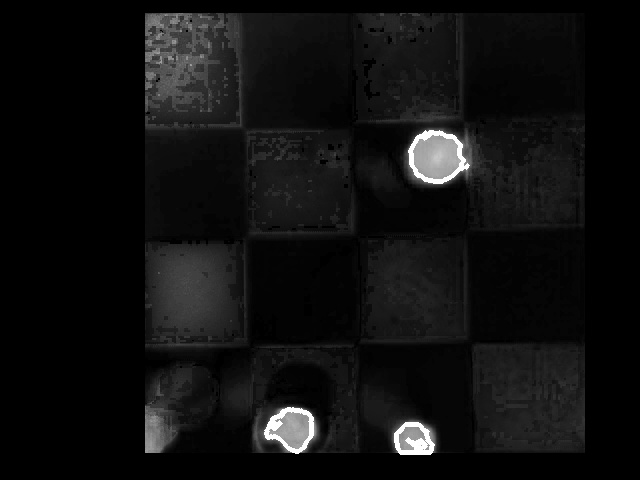
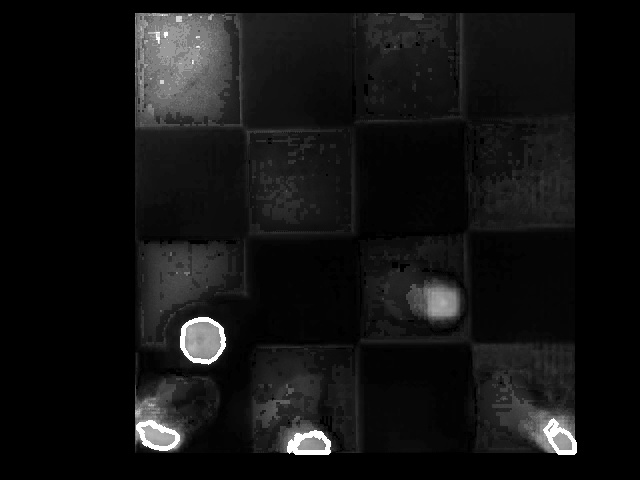
color detection, started on FEN string

diff --git a/Chester.py b/Chester.py
@@ -7,12 +7,11 @@ import sys
 import paramiko
 import random_FEN
 import urllib
-from cv_cmds import take_picture, crop_quadrant, get_centroid, get_contours
+from cv_cmds import take_picture, crop_quadrant, get_centroid, get_contours, extract_HSV_channels
 import cv2 as cv
 import numpy as np
 import signal
 import math
-
 
 class Chester:
     x = 0
@@ -29,9 +28,9 @@ class Chester:
     ssh = None
 
     quadrant_params = {
-        "x_offset": [17, 25, 23, 13],
-        "y_offset": [67, 65, 140, 145],
-        "square_size": [110, 110, 110, 110],
+        "x_offset": [17, 25, 20, 13],
+        "y_offset": [67, 65, 140, 135],
+        "square_size": [110, 110, 115, 110],
         "square_offset": [(0, 4), (4, 4), (4, 0), (0, 0)] #letter, number
     }
 
@@ -49,12 +48,12 @@ class Chester:
         }
 
     piece_color_dict = {
-        'king':[(83, 60, 90), (100, 115, 150)],
+        'king':[(75, 60, 50), (100, 160, 150)],
         'queen':[(105, 130, 130), (115, 190, 190)],
-        'bishop':[(175, 125, 80), (185, 160, 120)],
-        'knight':[(15, 130, 120), (30, 170, 195)],
-        'rook':[(110, 140, 75), (120, 195, 125)],
-        'pawn':[(0, 125, 125), (5, 180, 180)]
+        'bishop':[(170, 70, 20), (185, 170, 120)],
+        'knight':[(15, 90, 120), (30, 170, 195)],
+        'rook':[(105, 70, 20), (120, 195, 125)],
+        'pawn':[(0, 130, 80), (5, 180, 210)]
     }
 
     x_offset = 20
@@ -141,9 +140,11 @@ class Chester:
 
         print("Analyzing...")
 
-        print(self.get_img_pieces(pictures))
+        pieces = self.get_img_pieces(pictures)
 
         self.move_to_z(self.move_height)
+
+        self.pieces_to_arr(pieces)
 
         #Insert opencv magic here
         
@@ -151,10 +152,31 @@ class Chester:
         return FEN
         #example FEN (starting position): "rnbqkbnr/pppppppp/8/8/8/8/PPPPPPPP/RNBQKBNR w KQkq - 0 1"
 
+    def pieces_to_arr(self, pieces):
+        arr = np.zeros([8,8], dtype=str)
+        for p in pieces:
+            j = 7-(int(self.letterDictionary[p["square"][0:1]])-1)
+            i = 7-(int(p["square"][1:2])-1)
+
+            arr[i,j] = p["piece"]
+
+            if(p["piece"] == "knight"):
+                arr[i,j] = 'n'
+
+            if(p["color"] == "white"):
+                arr[i,j] = arr[i,j].upper()
+            
+        
+        print(arr)
+        return arr
+
+    
     def get_img_pieces(self, imgs):
         pieces = []
         for i in range(4):
             img = imgs[i]
+
+            temp_dict = {}
 
             x_off = self.quadrant_params["x_offset"][i]
             y_off = self.quadrant_params["y_offset"][i]
@@ -163,29 +185,78 @@ class Chester:
 
 
             img = crop_quadrant(img, x_off, y_off, s_size)
+            extract_HSV_channels(cv.cvtColor(img,cv.COLOR_BGR2HSV), suffix=str(i))
+
+            image_center = [0,0]
+            image_center[0] = (s_size*2+y_off)
+            image_center[1] = s_size*2+x_off
 
             for p in self.piece_color_dict.keys():
                 cntrs = get_contours(img, self.piece_color_dict[p])
                 for c in cntrs:
-                    print(i)
-                    cv.drawContours(img, [c], -1, (0,255,0), thickness=3)
-                    cv.imwrite(f"cntr{i}.jpg", img)
-                    # center = get_centroid(c)
-                    # print(center)
-                    # #cv.circle(img, center, 10, (255, 0, 0))
-                    # #cv.imwrite("circle.jpg", img)
-                    # square = self.square_from_centroid(center, x_off, y_off, s_size)
-                    # print(square)
-                    # print(s_off)
-                    # letter = (square[0] + s_off[0]+1)
-                    # letter = list(self.letterDictionary.keys())[list(self.letterDictionary.values()).index(letter)]
-                    # number = square[1] + s_off[1] + 1
+                    
+                    center = get_centroid(c)
+                    #cv.circle(img, center, 10, (255, 0, 0))
+                    #cv.imwrite("circle.jpg", img)
+                    square = self.square_from_centroid(center, x_off, y_off, s_size)
+                    letter = (square[0] + s_off[0]+1)
+                    letter = list(self.letterDictionary.keys())[list(self.letterDictionary.values()).index(letter)]
+                    number = square[1] + s_off[1] + 1
 
-                    # pieces.append({
-                    #     "piece":p,
-                    #     "square": letter + str(number),
-                    #     "color": "white"
-                    # })
+                    pos =  letter + str(number)
+                    area = cv.contourArea(c)
+                    if(pos in temp_dict and temp_dict[pos] > area):
+                        continue
+
+                    center_dist = [0, 0]
+                    center_dist[0] = center[0] - image_center[0]
+                    center_dist[1] = center[1] - image_center[1]
+
+                    rect_width = 20
+                    rect_length = math.sqrt(center_dist[0]**2+center_dist[1]**2)/5 + 20
+                    piece_dist = 25
+                    center_angle = math.atan2(center_dist[1], center_dist[0])
+                    rect_angle = math.pi/2 - center_angle
+                    rx = rect_width/2*math.cos(rect_angle)
+                    ry = rect_width/2*math.sin(rect_angle)
+
+                    rmx1 = center[0]-piece_dist*math.cos(center_angle)
+                    rmy1 = center[1]-piece_dist*math.sin(center_angle)
+                    rmx2 = center[0]-rect_length*math.cos(center_angle)
+                    rmy2 = center[1]-rect_length*math.sin(center_angle)
+
+                    p1 = (int(rmx1-rx), int(rmy1+ry))
+                    p2 = (int(rmx1+rx), int(rmy1-ry))
+                    p3 = (int(rmx2+rx), int(rmy2-ry))
+                    p4 = (int(rmx2-rx), int(rmy2+ry))
+
+                    rect_mask = np.zeros(img[:,:,2].shape, dtype=img[:,:,2].dtype)
+                    cv.drawContours(rect_mask, [np.array([p1, p2, p3, p4])], -1, 255, thickness=-1)
+                    rect_mask = cv.bitwise_and(img[:,:,2], img[:, :, 2], mask=rect_mask)
+                    
+                    sum = 0
+                    pix = 0
+                    for i in range(rect_mask.shape[0]):
+                        for j in range(rect_mask.shape[1]):
+                            if(rect_mask[i, j] > 0):
+                                sum += rect_mask[i,j]
+                                pix += 1
+
+                    cv.drawContours(img, [c], -1, (0,255,0), thickness=3)
+
+                    #cv.imwrite(f"cntr{i}.jpg", img)
+
+                    temp_dict[pos] = area
+
+                    color = "black"
+                    if(sum/pix > 60):
+                        color = "white"
+
+                    pieces.append({
+                        "piece":p,
+                        "square": pos,
+                        "color": color
+                    })
         return pieces
                 
 

diff --git a/cv_cmds.py b/cv_cmds.py
@@ -31,14 +31,14 @@ def undistort(img):
     undistorted_img = cv.remap(img, map1, map2, interpolation=cv.INTER_LINEAR, borderMode=cv.BORDER_CONSTANT)    
     return undistorted_img
 
-def extract_HSV_channels(img):
+def extract_HSV_channels(img, suffix=""):
     H = img[:, :, 0]
     S = img[:, :, 1]
     V = img[:, :, 2]
 
-    cv.imwrite('cv_test/H.jpg', H)
-    cv.imwrite('cv_test/S.jpg', S)
-    cv.imwrite('cv_test/V.jpg', V)
+    cv.imwrite(f'cv_test/H{suffix}.jpg', H)
+    cv.imwrite(f'cv_test/S{suffix}.jpg', S)
+    cv.imwrite(f'cv_test/V{suffix}.jpg', V)
 
 def draw_grid(img, x_offset, y_offset, square_size):
     for i in range(5):
@@ -66,17 +66,18 @@ def crop_quadrant(img, x_offset, y_offset, square_size):
 
 
 def get_contours(img, c_range):
-    min_size = 400
+    min_size = 200
 
     hsv = cv.cvtColor(img, cv.COLOR_BGR2HSV)
     extract_HSV_channels(hsv)
     mask = cv.inRange(hsv, c_range[0], c_range[1])
     contours, hierarchy = cv.findContours(mask, cv.RETR_TREE, cv.CHAIN_APPROX_SIMPLE)
+    retc = []
     for i, c in enumerate(contours):
-        if(cv.contourArea(c) < min_size):
-            del contours[i]
+        if(cv.contourArea(c) > min_size):
+            retc.append(c)
     
-    return contours
+    return retc
 
 def get_centroid(contour):
     M = cv.moments(contour)
@@ -94,19 +95,19 @@ s_s = 110
 
 S_mask = [(0, 50, 0), (255, 255, 255)]
 light_blue = [(105, 130, 130), (115, 190, 190)]
-red = [(175, 125, 80), (185, 160, 120)]
-dark_blue = [(110, 140, 75), (120, 195, 125)]
-orange = [(0, 125, 125), (5, 180, 180)]
-yellow = [(15, 130, 120), (30, 170, 195)]
-green = [(83, 60, 90), (100, 115, 150)]
+red = [(170, 70, 20), (185, 170, 120)]
+dark_blue = [(105, 70, 20), (120, 195, 125)]
+orange = [(0, 120, 80), (5, 200, 210)]
+yellow = [(15, 90, 120), (30, 170, 195)]
+green = [(75, 60, 50), (100, 160, 150)]
 
 
 
-img = cv.imread("Q1.jpg")
-#hsv = cv.cvtColor(crop_quadrant(img, x_o, y_o, s_s), cv.COLOR_BGR2HSV)
-#mask = cv.inRange(hsv, green[0], green[1])
-#img = cv.bitwise_and(hsv, hsv, mask=mask)
-img = draw_grid(img, x_o, y_o, s_s)
+img = cv.imread("cntr2.jpg")
+hsv = cv.cvtColor(img, cv.COLOR_BGR2HSV)
+mask = cv.inRange(hsv, S_mask[0], S_mask[1])
+img = cv.bitwise_and(hsv, hsv, mask=mask)
+#img = draw_grid(img, x_o, y_o, s_s)
 #img = crop_quadrant(img, x_o, y_o, s_s)
-#extract_HSV_channels(img)
+extract_HSV_channels(img)
 cv.imwrite("grid2.jpg", img)

diff --git a/chester_tester.py b/chester_tester.py
@@ -37,6 +37,7 @@ signal.signal(signal.SIGINT, signal_handler)
 player = input("Would you like to play white or black pieces? (Type w or b)")
 print("Standby...")
 current = chester.calculate_fen_position()        #This takes a picture and analyzes it, then generates the fen position of the board and returns it as a string
+print(current)
 # while True:
 #     move = input("Enter a square to move to: ")
 #     if(move == "grab"):
@@ -68,6 +69,8 @@ current = chester.calculate_fen_position()        #This takes a picture and anal
 #     chester.move_piece(move)
 #     input("Make your move, then press Enter")
 
+# pictures = [cv.imread("Q1.jpg"), cv.imread("Q2.jpg"), cv.imread("Q3.jpg") ,cv.imread("Q4.jpg")]
+# print(chester.get_img_pieces(pictures))
 
 chester.move_to_z(chester.grab_height)
 ser.close()
